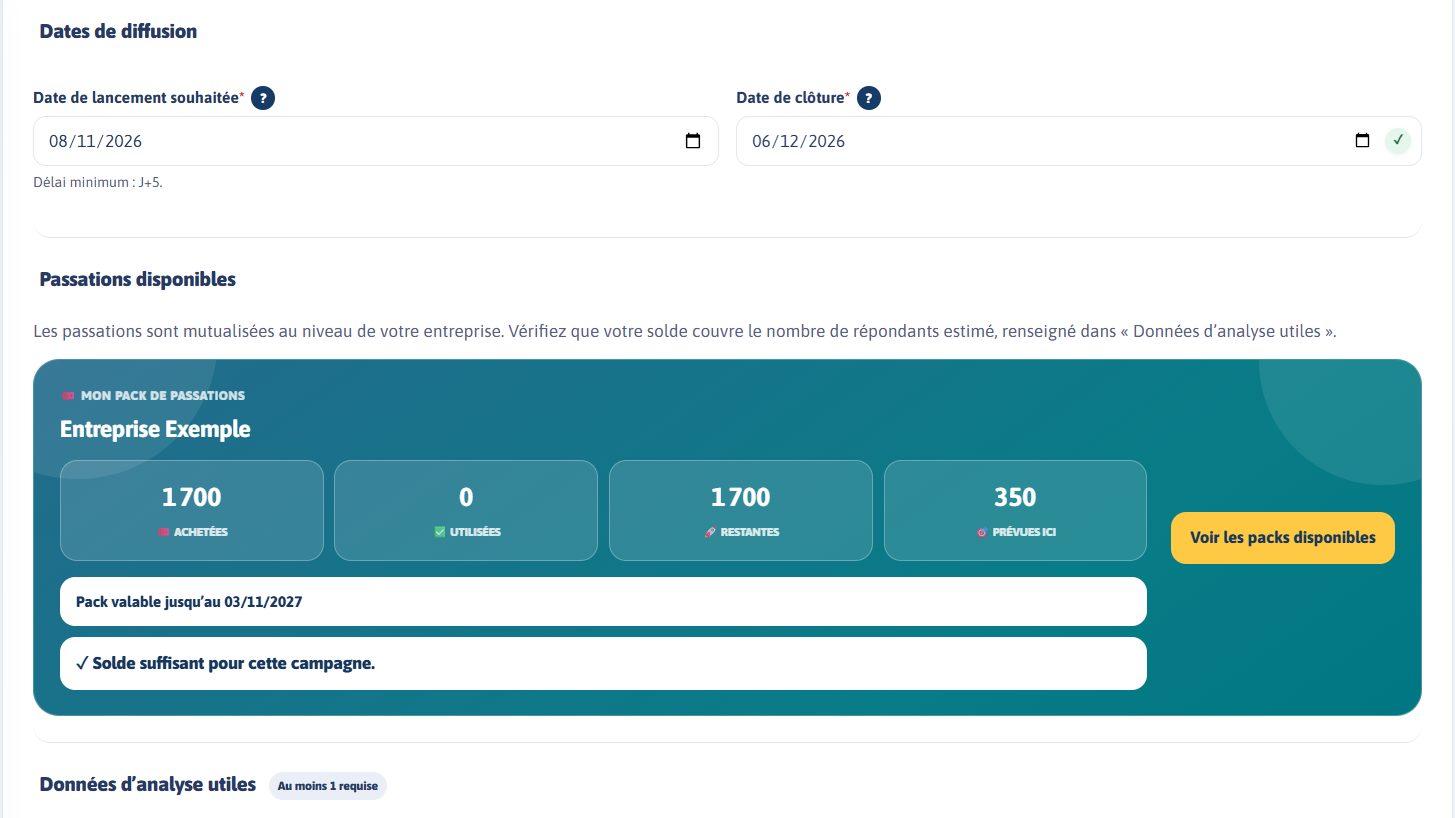
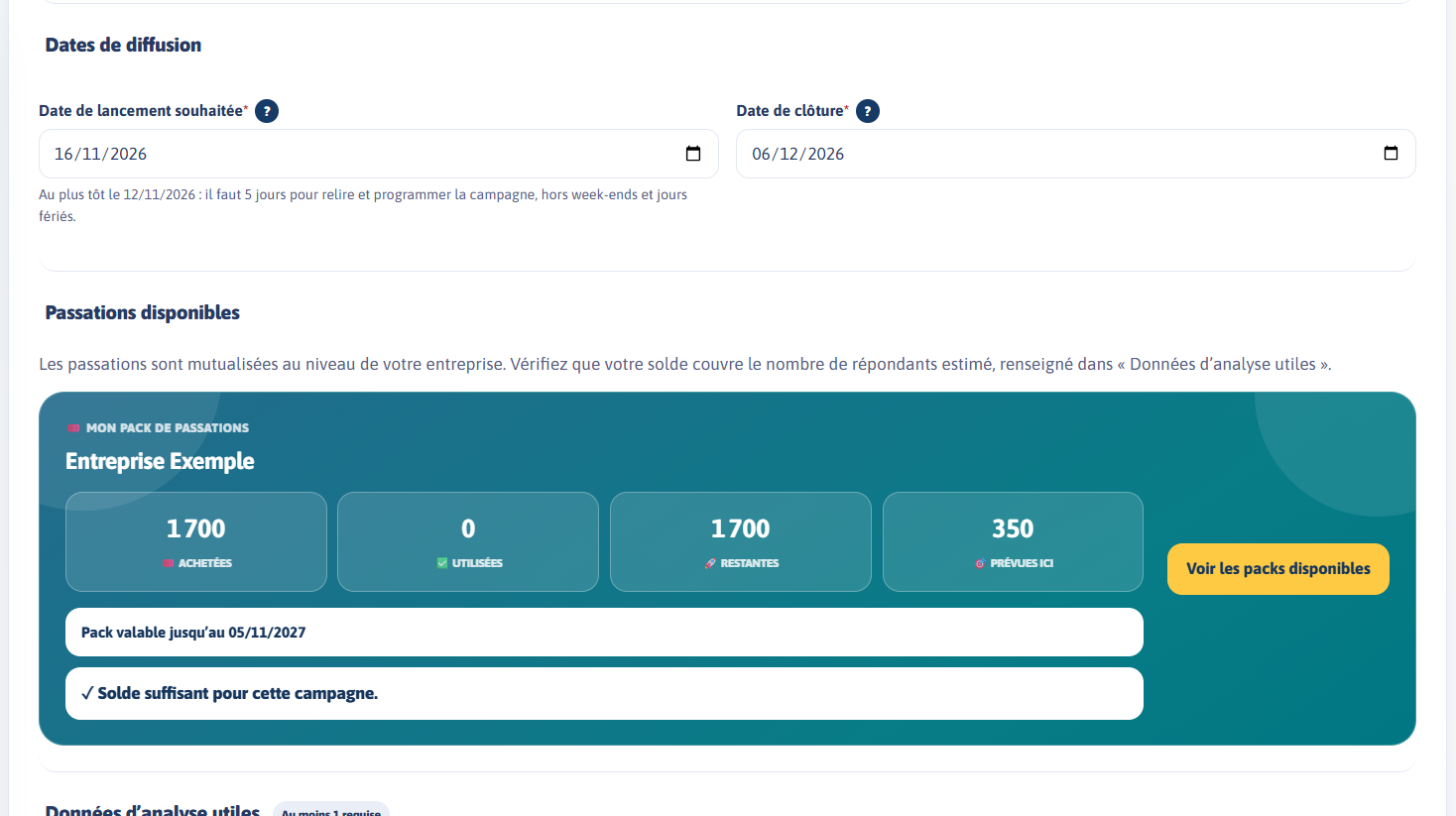
Tutos : date de lancement du 6 novembre pour Paramétrer

diff --git a/tutos/parametrer/index.html b/tutos/parametrer/index.html
@@ -23,8 +23,8 @@ window.TUTO={
     {at:9.76,img:'ecran-1.png',box:[1.8,67,96.2,24],text:'Le nom interne sert à retrouver la campagne dans votre Studio. Le titre est celui que verront vos collaborateurs.'},
     {at:18.26,img:'ecran-2.png',box:[1.8,37,96.2,15],text:'Pour l’adresse de diffusion, saisissez seulement la fin, par exemple « handicap-2027 ». Le nom de votre entreprise est ajouté automatiquement.'},
     {at:27.14,img:'ecran-3.png',box:[1.8,2,48.6,69],text:'L’introduction est le premier texte que liront vos collaborateurs. Adaptez-la à votre organisation, dans chaque langue de la campagne.'},
-    {at:35.38,img:'ecran-4.png',box:[1.8,1,96.2,27],text:'Choisissez les dates de lancement et de clôture. Laissez au moins cinq jours pour la relecture par Me&YouToo et nos échanges.'},
-    {at:43.28,img:'ecran-4.png',box:[1.8,31.5,96.2,57],text:'Le Studio vérifie que votre pack couvre les passations prévues. S’il en manque, vous pouvez commander un pack d’ici.'},
+    {at:35.38,img:'ecran-4.png?v=2',box:[1.8,2,96.2,26],text:'Choisissez les dates de lancement et de clôture. Laissez au moins cinq jours pour la relecture par Me&YouToo et nos échanges.'},
+    {at:43.28,img:'ecran-4.png?v=2',box:[1.8,34,96.2,58],text:'Le Studio vérifie que votre pack couvre les passations prévues. S’il en manque, vous pouvez commander un pack d’ici.'},
     {at:51.48,img:'ecran-5.png',box:[1.8,1.5,33,37.5],text:'Les données d’analyse sont des questions posées avant l’autodiagnostic. Elles permettent de lire les résultats par grands groupes.'},
     {at:59.44,img:'ecran-6.png',box:[2.3,26,95.4,18.6],text:'Ajoutez celles qui vous sont utiles : âge, fonction, région… Au moins une est requise. Le genre est obligatoire pour Sexisme et Alliés de la mixité.'},
     {at:69.9,img:'ecran-5.png',box:[2.3,73.6,95.4,25],text:'Le Studio veille à l’anonymat : il estime le plus petit groupe obtenu en croisant vos données. À vous d’en tenir compte.'},
